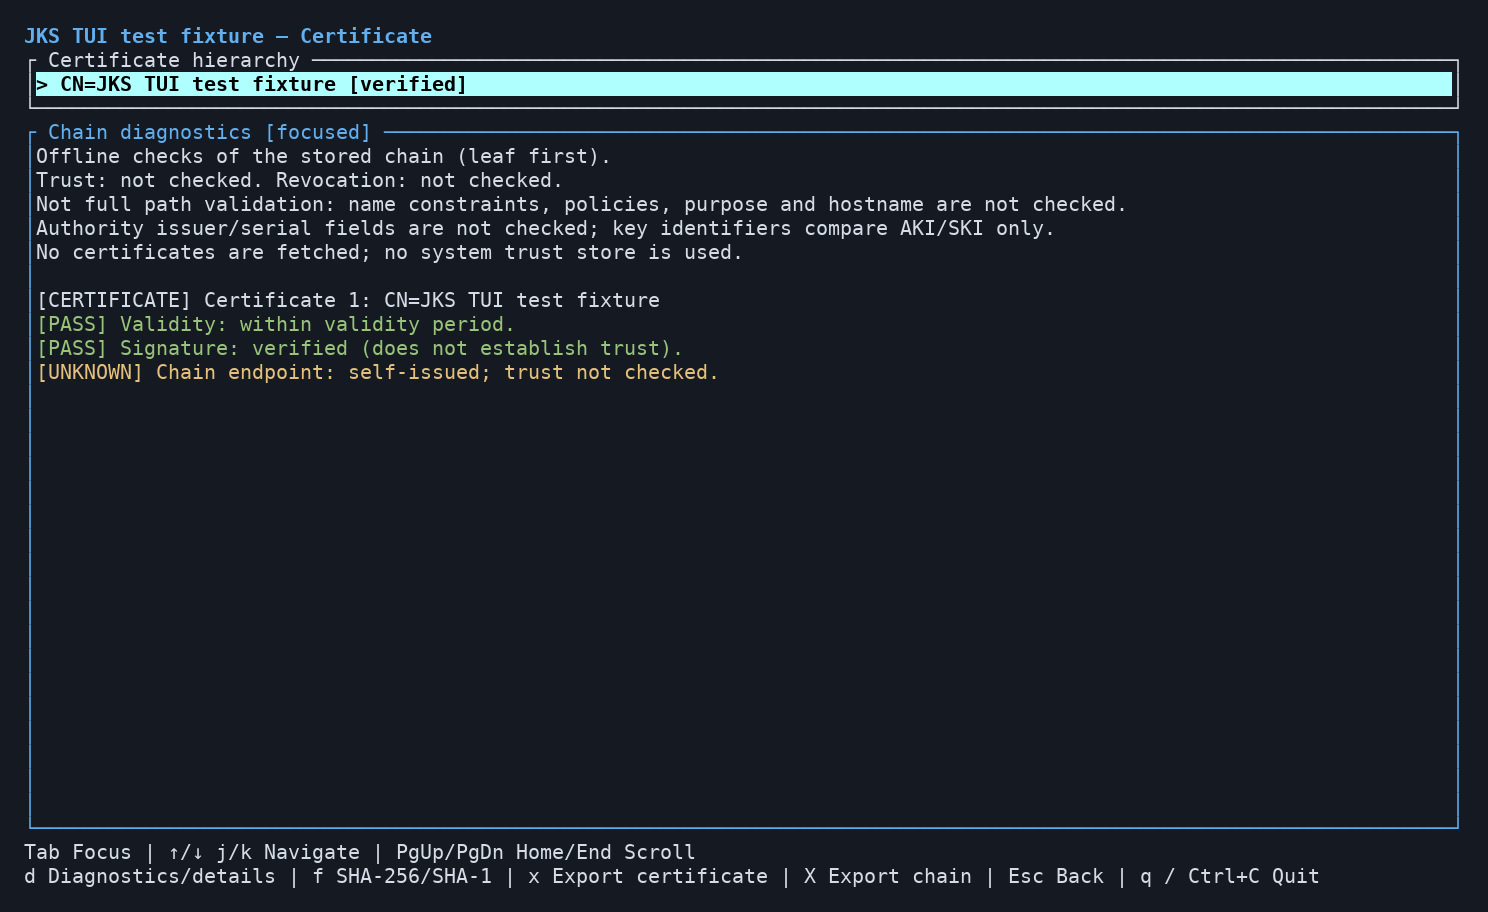
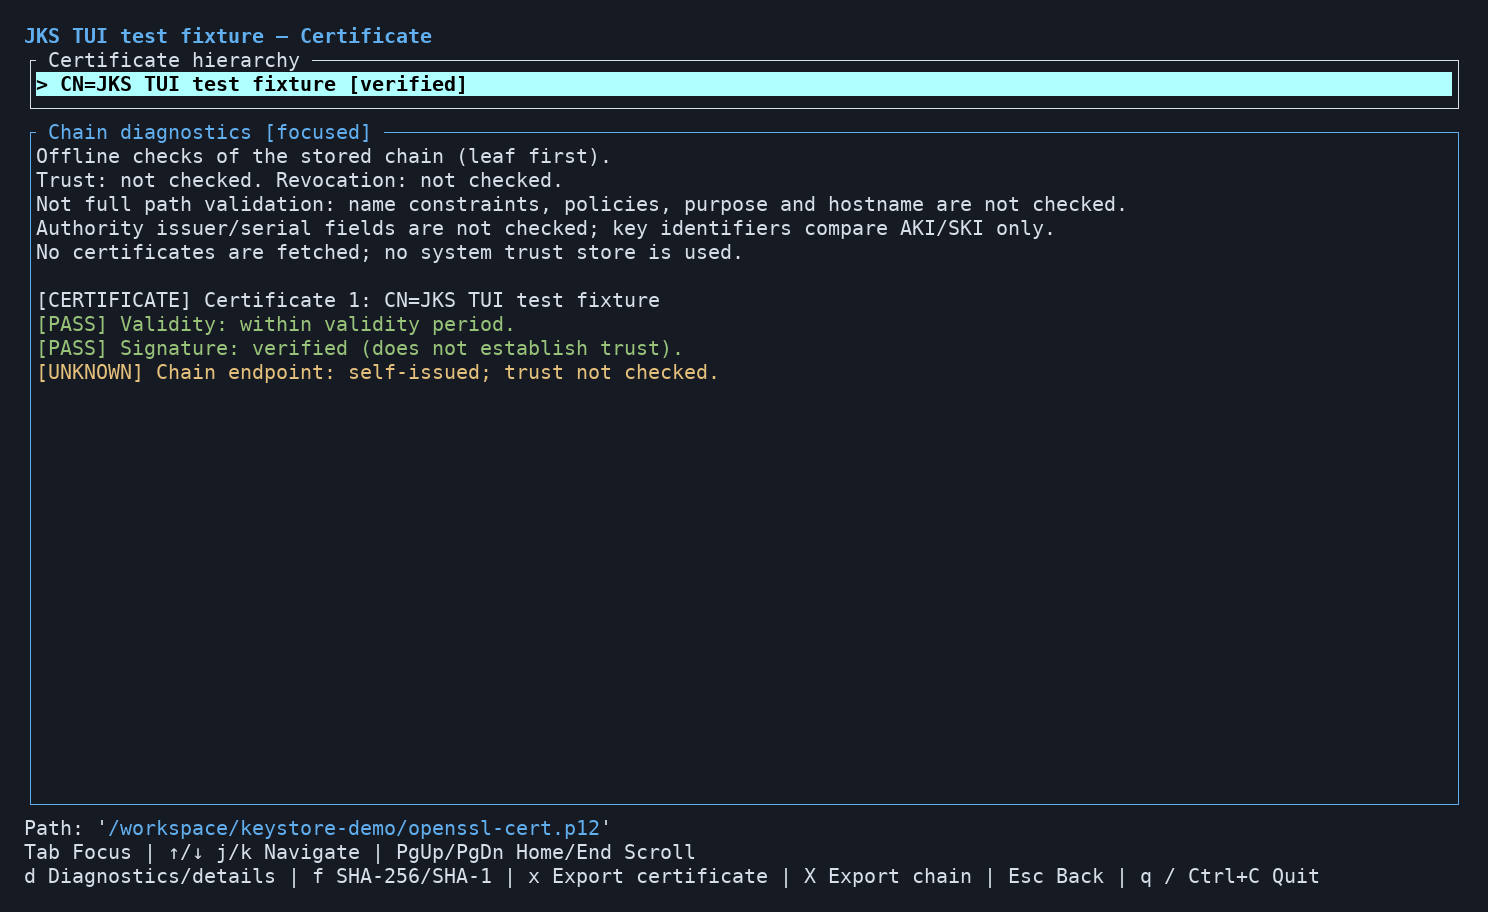
Show the opened file's path in the detail view and password prompt (#54)
* Show the opened file's path in the detail view and password prompt

The path bar was only shown below the entry list, so a certificate file
opened directly into its details never showed which file it was. The detail
view (certificate details and chain diagnostics) now has the same
`Path: '<path>'` bar. The password prompt's bar shows the file being
opened rather than the previously loaded one.

Claude-Session: https://claude.ai/code/session_01PycV4ukTcBZbCtjVyUW49A

* docs: refresh detail view screenshots with the path bar

Claude-Session: https://claude.ai/code/session_01PycV4ukTcBZbCtjVyUW49A

* Show the status-bar path in blue

Only the path is blue; the `Path:` label and the quotes keep the default
colour. The entry list, password prompt, and detail view share one helper
for the bar. Refresh all three README screenshots.

Claude-Session: https://claude.ai/code/session_01PycV4ukTcBZbCtjVyUW49A

---------

Changed region(s): [[0.0, 0.8904, 0.4019, 0.9211]]

diff --git a/src/entry_details.rs b/src/entry_details.rs
@@ -4,7 +4,7 @@ mod chain;
 mod request;
 
 use std::{
-    path::PathBuf,
+    path::{Path, PathBuf},
     time::{SystemTime, UNIX_EPOCH},
 };
 
@@ -119,6 +119,8 @@ pub struct EntryDetails {
     scroll: u16,
     page: u16,
     max_scroll: u16,
+    /// The opened file, shown below the panes.
+    path: PathBuf,
     /// Where exports are suggested and relative export names are resolved.
     directory: PathBuf,
     export: Option<ExportPrompt>,
@@ -128,8 +130,9 @@ pub struct EntryDetails {
 
 impl EntryDetails {
     /// Decodes the entry once. The view keeps what it shows, so it does not
-    /// depend on the entry table afterwards.
-    pub fn new(entry: &KeystoreEntry, directory: PathBuf) -> Self {
+    /// depend on the entry table afterwards. Exports default to the directory
+    /// of `path`, the opened file.
+    pub fn new(entry: &KeystoreEntry, path: &Path) -> Self {
         let view = match &entry.content {
             Content::Certificates { certificates, .. } => {
                 View::Chain(ChainView::new(certificates, entry.chain_warning))
@@ -150,7 +153,8 @@ impl EntryDetails {
             scroll: 0,
             page: 1,
             max_scroll: 0,
-            directory,
+            path: path.to_path_buf(),
+            directory: path.parent().unwrap_or(Path::new(".")).to_path_buf(),
             export: None,
             message: None,
         };
@@ -316,7 +320,7 @@ impl EntryDetails {
         let minimum = Paragraph::new(shortcuts)
             .wrap(Wrap { trim: false })
             .line_count(area.width);
-        if area.width < 20 || usize::from(area.height) < minimum.saturating_add(10) {
+        if area.width < 20 || usize::from(area.height) < minimum.saturating_add(11) {
             frame.render_widget(
                 Paragraph::new("Resize terminal for entry details. Esc Back | q / Ctrl+C Quit")
                     .wrap(Wrap { trim: false }),
@@ -328,9 +332,10 @@ impl EntryDetails {
         let footer_height = u16::try_from(footer.line_count(area.width))
             .unwrap_or(u16::MAX)
             .min(area.height / 2);
-        let [header, content, footer_area] = Layout::vertical([
+        let [header, content, path_bar, footer_area] = Layout::vertical([
             Constraint::Length(1),
             Constraint::Min(0),
+            Constraint::Length(1),
             Constraint::Length(footer_height),
         ])
         .areas(area);
@@ -399,6 +404,7 @@ impl EntryDetails {
         .unwrap_or(u16::MAX);
         self.scroll = self.scroll.min(self.max_scroll);
         frame.render_widget(paragraph.scroll((self.scroll, 0)).block(block), details);
+        frame.render_widget(crate::path_line(&self.path), path_bar);
         frame.render_widget(footer, footer_area);
     }
 
@@ -432,7 +438,6 @@ mod tests {
     };
     use crown::asn1::{der, oid::ObjectIdentifier};
     use ratatui::{Terminal, backend::TestBackend};
-    use std::path::Path;
 
     fn entry(certificates: Vec<Vec<u8>>) -> KeystoreEntry {
         KeystoreEntry {
@@ -465,7 +470,7 @@ mod tests {
             metadata_certificate("leaf", "root", &[1], &[]),
             metadata_certificate("root", "root", &[2], &[]),
         ]);
-        let mut view = EntryDetails::new(&data, PathBuf::new());
+        let mut view = EntryDetails::new(&data, Path::new(""));
         let selected = view.hierarchy.selected();
         view.handle_key(KeyCode::Char('d'));
         assert!(view.details_focused);
@@ -493,7 +498,7 @@ mod tests {
     #[test]
     fn only_expired_valid_until_timestamps_render_red() {
         let data = entry(vec![metadata_certificate("leaf", "root", &[1], &[])]);
-        let view = EntryDetails::new(&data, PathBuf::new());
+        let view = EntryDetails::new(&data, Path::new(""));
         let View::Chain(chain) = &view.view else {
             panic!("a certificate entry shows its chain");
         };
@@ -528,7 +533,7 @@ mod tests {
             metadata_certificate("leaf", "root", &[1], &[]),
             metadata_certificate("root", "root", &[2], &[]),
         ]);
-        let mut view = EntryDetails::new(&data, PathBuf::new());
+        let mut view = EntryDetails::new(&data, Path::new(""));
         let screen = draw(&mut view, 100, 50);
         assert!(screen.find("CN=root").unwrap() < screen.find("CN=leaf").unwrap());
         assert!(view.text(0).to_string().contains("Subject: CN=leaf"));
@@ -547,7 +552,7 @@ mod tests {
     fn wrapped_values_remain_accessible_with_scrolling_and_resizing() {
         let long_name = format!("{}THE-END", "long-name-界".repeat(30));
         let data = entry(vec![metadata_certificate(&long_name, "root", &[1], &[])]);
-        let mut view = EntryDetails::new(&data, PathBuf::new());
+        let mut view = EntryDetails::new(&data, Path::new(""));
         assert!(!draw(&mut view, 40, 24).contains("THE-END"));
         view.handle_key(KeyCode::Tab);
         assert!(view.details_focused);
@@ -587,7 +592,7 @@ mod tests {
             metadata_certificate("leaf", "root", &[1], &[critical_ca]),
             metadata_certificate("root", "root", &[2], &[]),
         ]);
-        let mut view = EntryDetails::new(&data, PathBuf::new());
+        let mut view = EntryDetails::new(&data, Path::new(""));
         let text = view.text(0).to_string();
         let fingerprint = text.find("Fingerprint (SHA-256)").unwrap();
         let section = text.find("Extensions:\n  Basic Constraints (2.5.29.19) [critical]\n    CA: true, path length: unlimited\n").unwrap();
@@ -603,7 +608,7 @@ mod tests {
             b"unreadable".to_vec(),
             metadata_certificate("root", "root", &[2], &[]),
         ]);
-        let mut view = EntryDetails::new(&data, PathBuf::new());
+        let mut view = EntryDetails::new(&data, Path::new(""));
         let screen = draw(&mut view, 100, 30);
         assert!(screen.contains("Certificate 1"));
         assert!(screen.contains("Certificate could not be decoded"));
@@ -620,7 +625,7 @@ mod tests {
             ed25519_certificate("intermediate", "root", 2, 9),
             ed25519_certificate("root", "root", 1, 1),
         ]);
-        let mut view = EntryDetails::new(&data, PathBuf::new());
+        let mut view = EntryDetails::new(&data, Path::new(""));
         let screen = draw(&mut view, 100, 50);
         assert!(screen.contains("CN=root [verified]"));
         assert!(screen.contains("CN=intermediate [bad signature]"));
@@ -648,7 +653,7 @@ mod tests {
         );
 
         let lone = entry(vec![ed25519_certificate("leaf", "missing", 3, 2)]);
-        let mut view = EntryDetails::new(&lone, PathBuf::new());
+        let mut view = EntryDetails::new(&lone, Path::new(""));
         assert!(draw(&mut view, 100, 50).contains("CN=leaf [unchecked]"));
         assert!(
             view.text(0)
@@ -656,7 +661,7 @@ mod tests {
                 .contains("Signature: not checked (the issuer certificate is not stored).")
         );
         let unreadable = entry(vec![b"unreadable".to_vec(), data.certificates()[2].clone()]);
-        let view = EntryDetails::new(&unreadable, PathBuf::new());
+        let view = EntryDetails::new(&unreadable, Path::new(""));
         let View::Chain(chain) = &view.view else {
             panic!("a certificate entry shows its chain");
         };
@@ -674,7 +679,7 @@ mod tests {
         let file = crate::certificate_file::parse(KEYTOOL_REQUEST).unwrap();
         let data = &file.entries[0];
         let directory = TestDirectory::new();
-        let mut view = EntryDetails::new(data, directory.path().to_path_buf());
+        let mut view = EntryDetails::new(data, &directory.path().join("request.csr"));
         view.handle_key(KeyCode::Char('d'));
         assert!(!view.diagnostics);
         assert!(view.details_focused);
@@ -725,7 +730,7 @@ mod tests {
             content: Content::Request(altered),
             ..entry(vec![])
         };
-        let mut view = EntryDetails::new(&altered_entry, PathBuf::new());
+        let mut view = EntryDetails::new(&altered_entry, Path::new(""));
         assert!(draw(&mut view, 100, 50).contains("CN=Device [bad signature]"));
         let text = view.text(0).to_string();
         assert!(text.contains(
@@ -746,7 +751,7 @@ mod tests {
                 content: Content::Request(request),
                 ..entry(vec![])
             };
-            let mut view = EntryDetails::new(&junk, PathBuf::new());
+            let mut view = EntryDetails::new(&junk, Path::new(""));
             let screen = draw(&mut view, 100, 30);
             assert!(screen.contains("Certificate request (unreadable or unnamed) [unchecked]"));
             assert!(screen.contains("Certificate request could not be decoded."));
@@ -759,7 +764,7 @@ mod tests {
             .map(|i| metadata_certificate(&format!("certificate-{i}"), "issuer", &[1], &[]))
             .collect();
         let data = entry(certificates);
-        let mut view = EntryDetails::new(&data, PathBuf::new());
+        let mut view = EntryDetails::new(&data, Path::new(""));
         assert!(draw(&mut view, 80, 24).contains("CN=certificate-0"));
         for _ in 0..29 {
             view.handle_key(KeyCode::Up);

diff --git a/src/tests.rs b/src/tests.rs
@@ -485,6 +485,17 @@ fn selecting_a_valid_empty_keystore_displays_its_absolute_path() {
         rendered.lines().nth(22).unwrap().trim_end(),
         format!("Path: '{}'", expected.display())
     );
+    // Only the path itself is blue, not the label or the quotes.
+    let path_bar = buffer(&mut app, 200, 24);
+    let path_end = 7 + expected.display().to_string().chars().count() as u16;
+    for x in 0..=path_end {
+        let color = if (7..path_end).contains(&x) {
+            Color::Blue
+        } else {
+            Color::Reset
+        };
+        assert_eq!(path_bar[(x, 22)].fg, color, "column {x}");
+    }
     let title = rendered.lines().next().unwrap();
     assert!(title.contains(" keystore-tui "));
     assert!(!title.contains(expected.to_str().unwrap()));
@@ -708,6 +719,8 @@ fn cancelling_a_password_prompt_preserves_the_loaded_entries() {
     press(&mut app, KeyCode::End);
     press(&mut app, KeyCode::Enter);
     type_password(&mut app, "partial");
+    let other = directory.path().join("b-other.jks").canonicalize().unwrap();
+    assert!(screen(&mut app, 200, 24).contains(&format!("Path: '{}'", other.display())));
     assert!(!press(&mut app, KeyCode::Esc));
     assert!(app.password_prompt.is_none());
     assert_eq!(app.keystore_path, Some(original.canonicalize().unwrap()));
@@ -717,6 +730,13 @@ fn cancelling_a_password_prompt_preserves_the_loaded_entries() {
     )));
     assert_eq!(app.entries.len(), 2);
     assert!(screen(&mut app, 100, 24).contains("server-key"));
+    press(&mut app, KeyCode::Enter);
+    assert!(app.entry_details.is_some());
+    assert!(screen(&mut app, 200, 30).contains(&format!(
+        "Path: '{}'",
+        original.canonicalize().unwrap().display()
+    )));
+    press(&mut app, KeyCode::Esc);
 
     press(&mut app, KeyCode::Char('o'));
     press(&mut app, KeyCode::End);
@@ -915,7 +935,7 @@ fn enter_opens_full_screen_details_and_escape_preserves_list_state() {
     ] {
         assert!(details.contains(label), "missing {label}");
     }
-    assert!(!details.contains("Path:"));
+    assert!(details.contains("Path: '/keystore.jks'"));
     assert!(!press(&mut app, KeyCode::Esc));
     assert!(app.entry_details.is_none());
     assert_eq!(app.entries_state, previous);

diff --git a/src/main.rs b/src/main.rs
@@ -294,16 +294,8 @@ impl App {
 
     fn show_selected_details(&mut self) {
         if let Some(index) = self.selected_entry() {
-            let directory = self
-                .keystore_path
-                .as_deref()
-                .and_then(Path::parent)
-                .unwrap_or(Path::new("."))
-                .to_path_buf();
-            self.entry_details = Some(entry_details::EntryDetails::new(
-                &self.entries[index],
-                directory,
-            ));
+            let path = self.keystore_path.as_deref().unwrap_or(Path::new(""));
+            self.entry_details = Some(entry_details::EntryDetails::new(&self.entries[index], path));
         }
     }
 
@@ -529,11 +521,13 @@ impl App {
                 status,
             );
         }
-        if let Some(path) = &self.keystore_path {
-            frame.render_widget(
-                Paragraph::new(format!("Path: '{}'", path.display())),
-                path_bar,
-            );
+        // The password prompt shows the file being opened, not the one already open.
+        let path = match &self.password_prompt {
+            Some(prompt) => Some(&prompt.path),
+            None => self.keystore_path.as_ref(),
+        };
+        if let Some(path) = path {
+            frame.render_widget(path_line(path), path_bar);
         }
         if let Some(picker) = &mut self.file_picker {
             picker.draw(frame);
@@ -645,6 +639,15 @@ fn read_bounded(reader: impl Read, size_hint: u64, limit: u64) -> io::Result<Vec
         return Err(too_large(limit));
     }
     Ok(data)
+}
+
+/// The status bar's `Path: '<path>'`, with the path itself in blue.
+fn path_line(path: &Path) -> Line<'static> {
+    Line::from(vec![
+        "Path: '".into(),
+        path.display().to_string().blue(),
+        "'".into(),
+    ])
 }
 
 fn too_large(limit: u64) -> io::Error {

diff --git a/tests/terminal_smoke.py b/tests/terminal_smoke.py
@@ -244,7 +244,7 @@ class TerminalSmoke(unittest.TestCase):
                 with self.subTest(name=name):
                     Path(directory, name).write_bytes(data)
                     with PtyApp(self.binary, directory, [name]) as app:
-                        app.expect(heading, "[verified]")
+                        app.expect(heading, "[verified]", f"{name}'")
                         self.assertNotIn(b"Keystore password:", app.output)
                         app.send(b"\x1b")
                         app.expect("1 entries | Sort: alias")
@@ -257,7 +257,7 @@ class TerminalSmoke(unittest.TestCase):
             with PtyApp(self.binary, directory, ["certificate.der"]) as app:
                 app.expect("Certificate details", "[verified]")
                 app.send(b"d")
-                app.expect("Chain diagnostics", "Trust: not checked", "Revocation: not checked")
+                app.expect("Chain diagnostics", "Trust: not checked", "Revocation: not checked", "certificate.der'")
                 app.resize(60, 24)
                 app.send(b"\x1b[F")
                 app.expect("self-issued; trust not checked")

diff --git a/docs/SPEC.md b/docs/SPEC.md
@@ -186,6 +186,8 @@ any existing incomplete-entry warnings.
 - The password buffer is wiped after each attempt and whenever a character is
   deleted.
 - Cancelling the prompt keeps the keystore that was already loaded.
+- The status bar shows the path of the file being opened, not the one already
+  loaded.
 
 ## Entry list
 
@@ -208,7 +210,8 @@ any existing incomplete-entry warnings.
   weakness (see [Weak cryptography](#weak-cryptography)), and is empty
   otherwise. It checks the entry's own certificate, not the rest of its chain.
 - A status bar above the keyboard shortcuts shows the keystore's absolute path as
-  `Path: '<path>'`. Paths too long for the terminal width are clipped.
+  `Path: '<path>'`, with the path in blue and the label and quotes in the
+  default colour. Paths too long for the terminal width are clipped.
 - The table's bottom border shows, right-aligned, the entry count and sort order,
   for example `3 entries | Sort: alias`. With a filter it shows the filter and
   how many entries match, for example `Filter: 'web' | 2 of 9 entries | Sort:
@@ -250,6 +253,9 @@ any existing incomplete-entry warnings.
 
 - The view is full-screen and read-only, and it does not change the entry list's
   state. Returning to the list keeps the list's selection and scroll position.
+- As in the entry list, a status bar above the keyboard shortcuts shows the
+  opened file's path as `Path: '<path>'`, in both certificate details and chain
+  diagnostics.
 - The top pane is a selectable certificate hierarchy, starting with the leaf
   certificate selected. The bottom pane shows the fields of the selected
   certificate:

diff --git a/docs/REFERENCE.md b/docs/REFERENCE.md
@@ -67,7 +67,9 @@ After you select a file, type the keystore password and press `Enter`. Input is
 masked, `Backspace` deletes a character, and `Esc` cancels. A keystore with an
 empty password opens without asking. If the file is invalid, unreadable, or the
 password is wrong, an error appears in red. Cancelling the browser or the
-password prompt keeps the keystore that was already open.
+password prompt keeps the keystore that was already open. The path of the file
+being opened is shown below the prompt, and the path of the open file stays
+visible below the entry list and the detail view.
 
 A certificate file opens without a password. Each certificate in it, in PEM,
 DER, or PKCS#7 form, is listed as a `Certificate` entry in file order, named by

diff --git a/AGENTS.md b/AGENTS.md
@@ -81,7 +81,7 @@ To test a build in another location, pass
 
 The smoke tests use a generated public-certificate fixture with an empty
 password. They exercise opening a keystore, detail navigation, scrolling,
-signature checks, fingerprints, extensions, resizing, and returning to the list. They also build a
+signature checks, fingerprints, extensions, the file path, resizing, and returning to the list. They also build a
 three-entry store at runtime from copies of that certificate to exercise
 filtering (including `q` typed into the filter and `Esc` cancelling it) and
 sorting. They also open a PEM certificate file and export it, checking that `q`

diff --git a/CHANGELOG.md b/CHANGELOG.md
@@ -3,6 +3,13 @@
 All notable changes to keystore-tui are listed here. Versions follow
 [Semantic Versioning](https://semver.org/).
 
+## Unreleased
+
+- Show the opened file's path in the detail view, including chain diagnostics,
+  as well as in the entry list. The path itself is now shown in blue.
+- The password prompt shows the path of the file being opened, instead of the
+  file that was already open.
+
 ## 1.0.1
 
 - Adds `example.jks`, an empty-password test fixture with 20 certificate entries,
